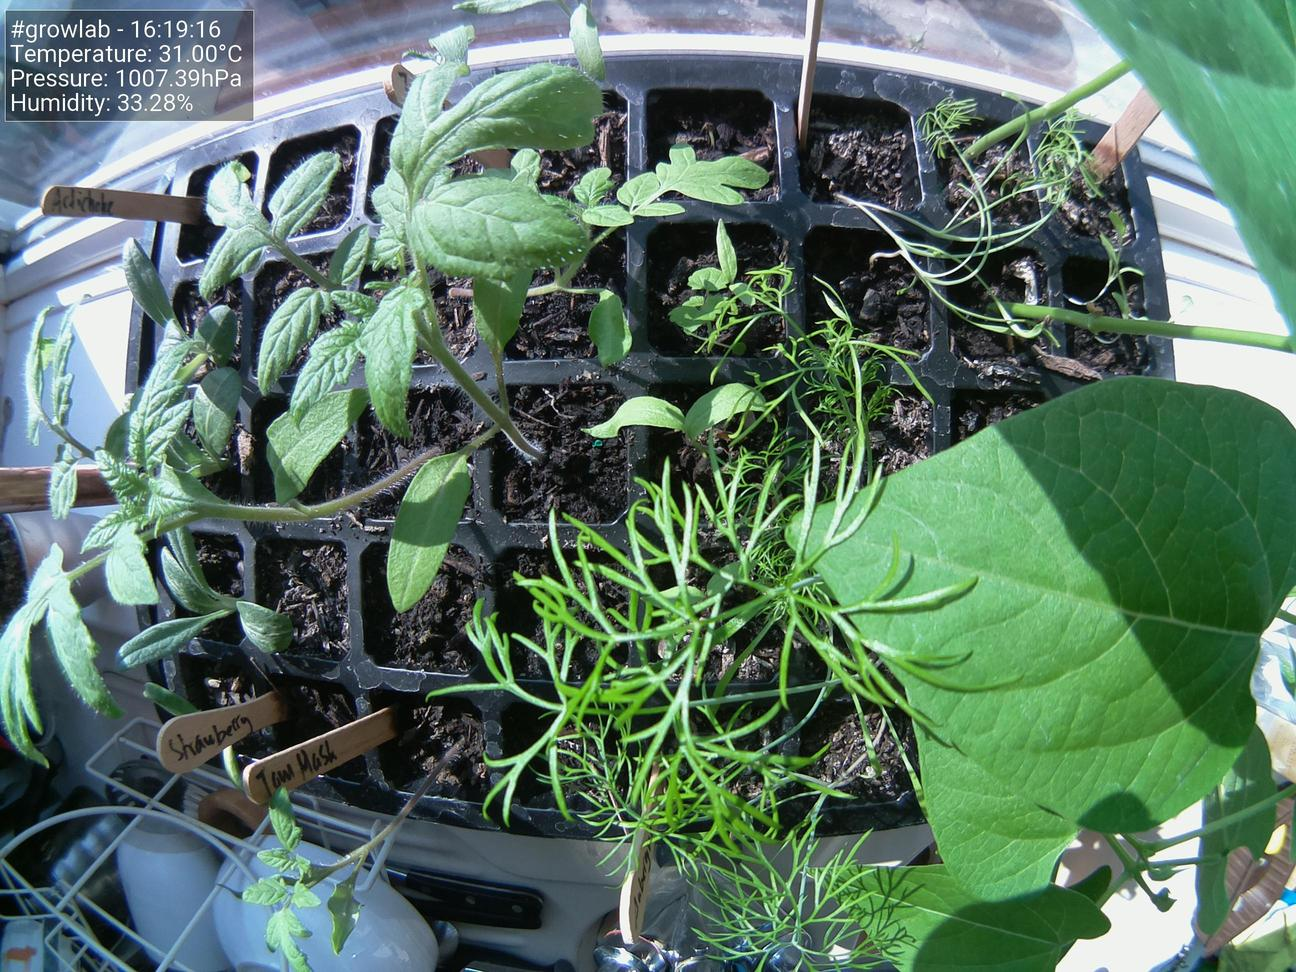
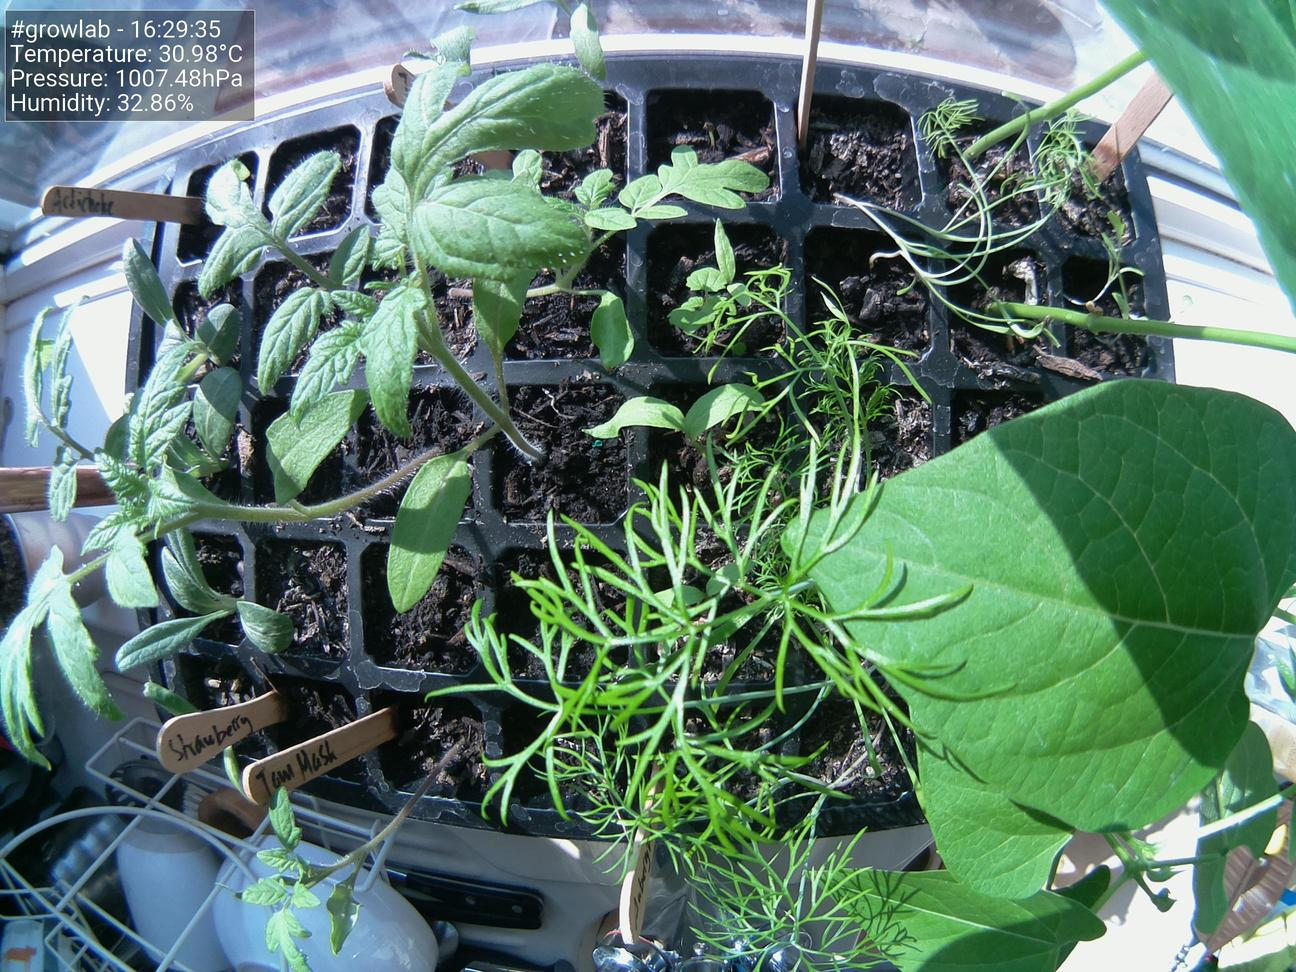
Update images at Wed 28 Apr 16:29:47 BST 2021

diff --git a/docs/index.html b/docs/index.html
@@ -38,19 +38,19 @@
                     <tbody>
                         <tr>
                             <td>Time</td>
-                            <td>16:19:16</td>
+                            <td>16:29:35</td>
                         </tr>
                         <tr>
                             <td>Temperature</td>
-                            <td>31.00°C</td>
+                            <td>30.98°C</td>
                         </tr>
                         <tr>
                             <td>Humidity</td>
-                            <td>33.28%</td>
+                            <td>32.86%</td>
                         </tr>
                         <tr>
                             <td>Pressure</td>
-                            <td>1007.39hPa</td>
+                            <td>1007.48hPa</td>
                         </tr>
                     </tbody>
                 </table>
@@ -58,7 +58,7 @@
 
                 <h5>Latest image</h5>
 		<div style="width: 85%;">
-	                <img class="figure-img img-fluid rounded" src="./preview.jpg?uid=1619623167.2869">
+	                <img class="figure-img img-fluid rounded" src="./preview.jpg?uid=1619623787.1769898">
 		</div>
             </div>
         </div>
